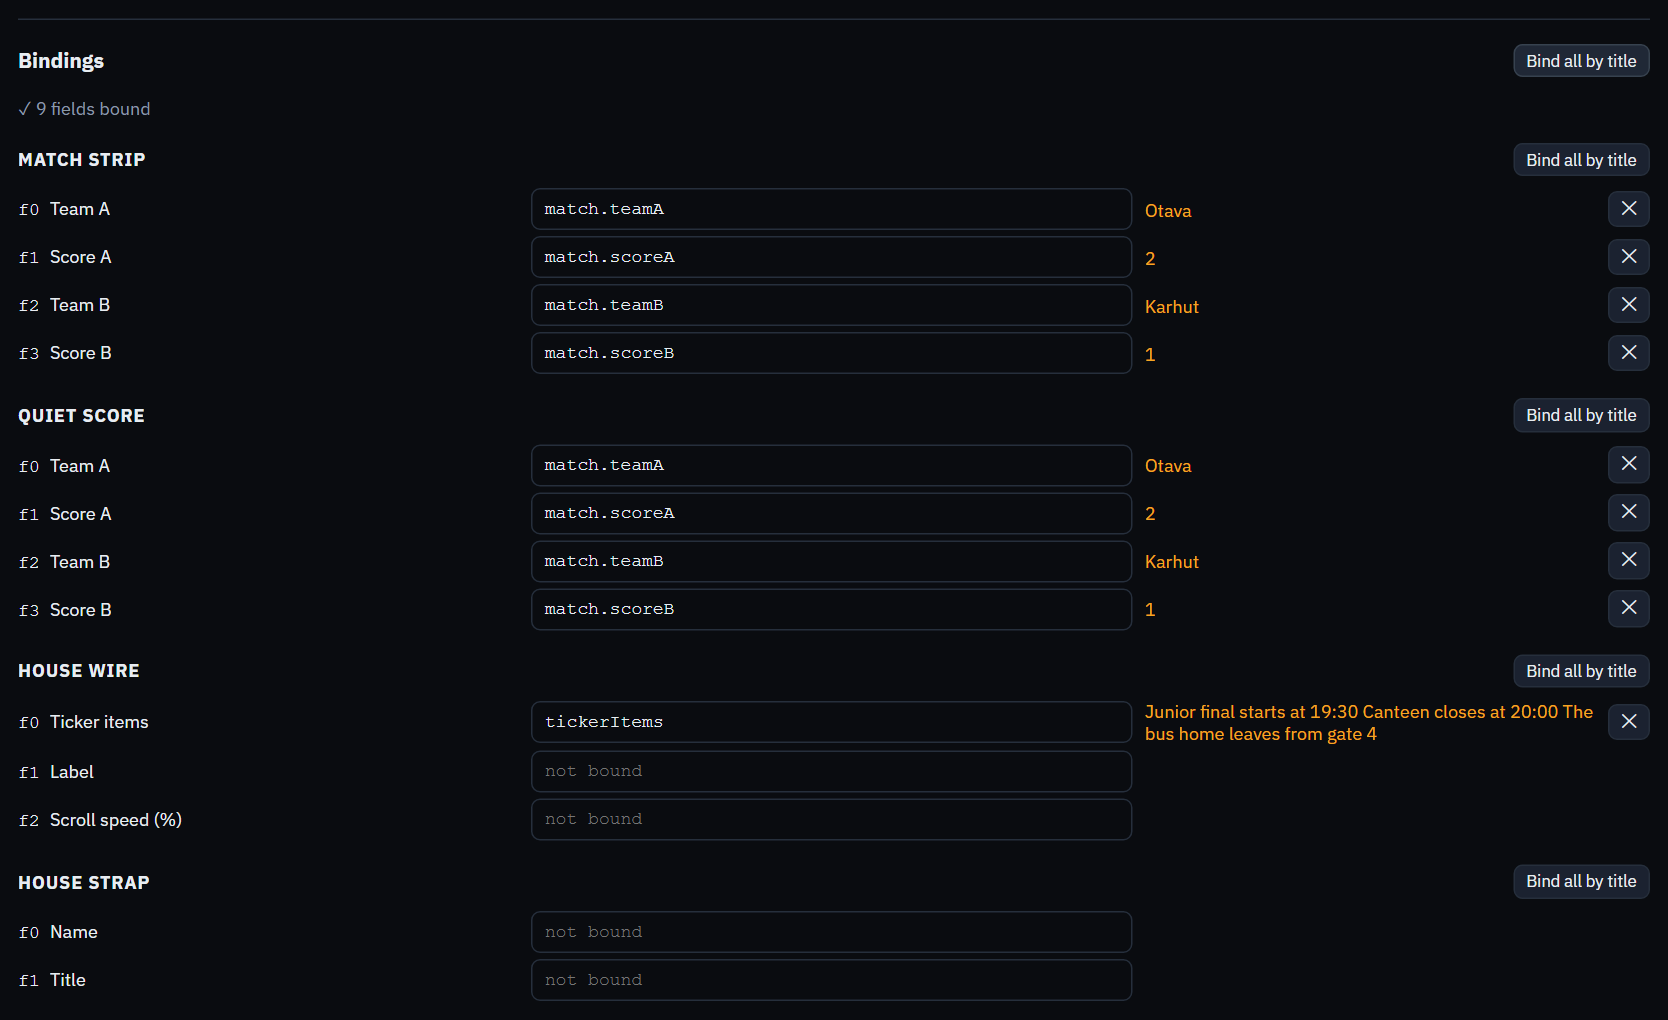
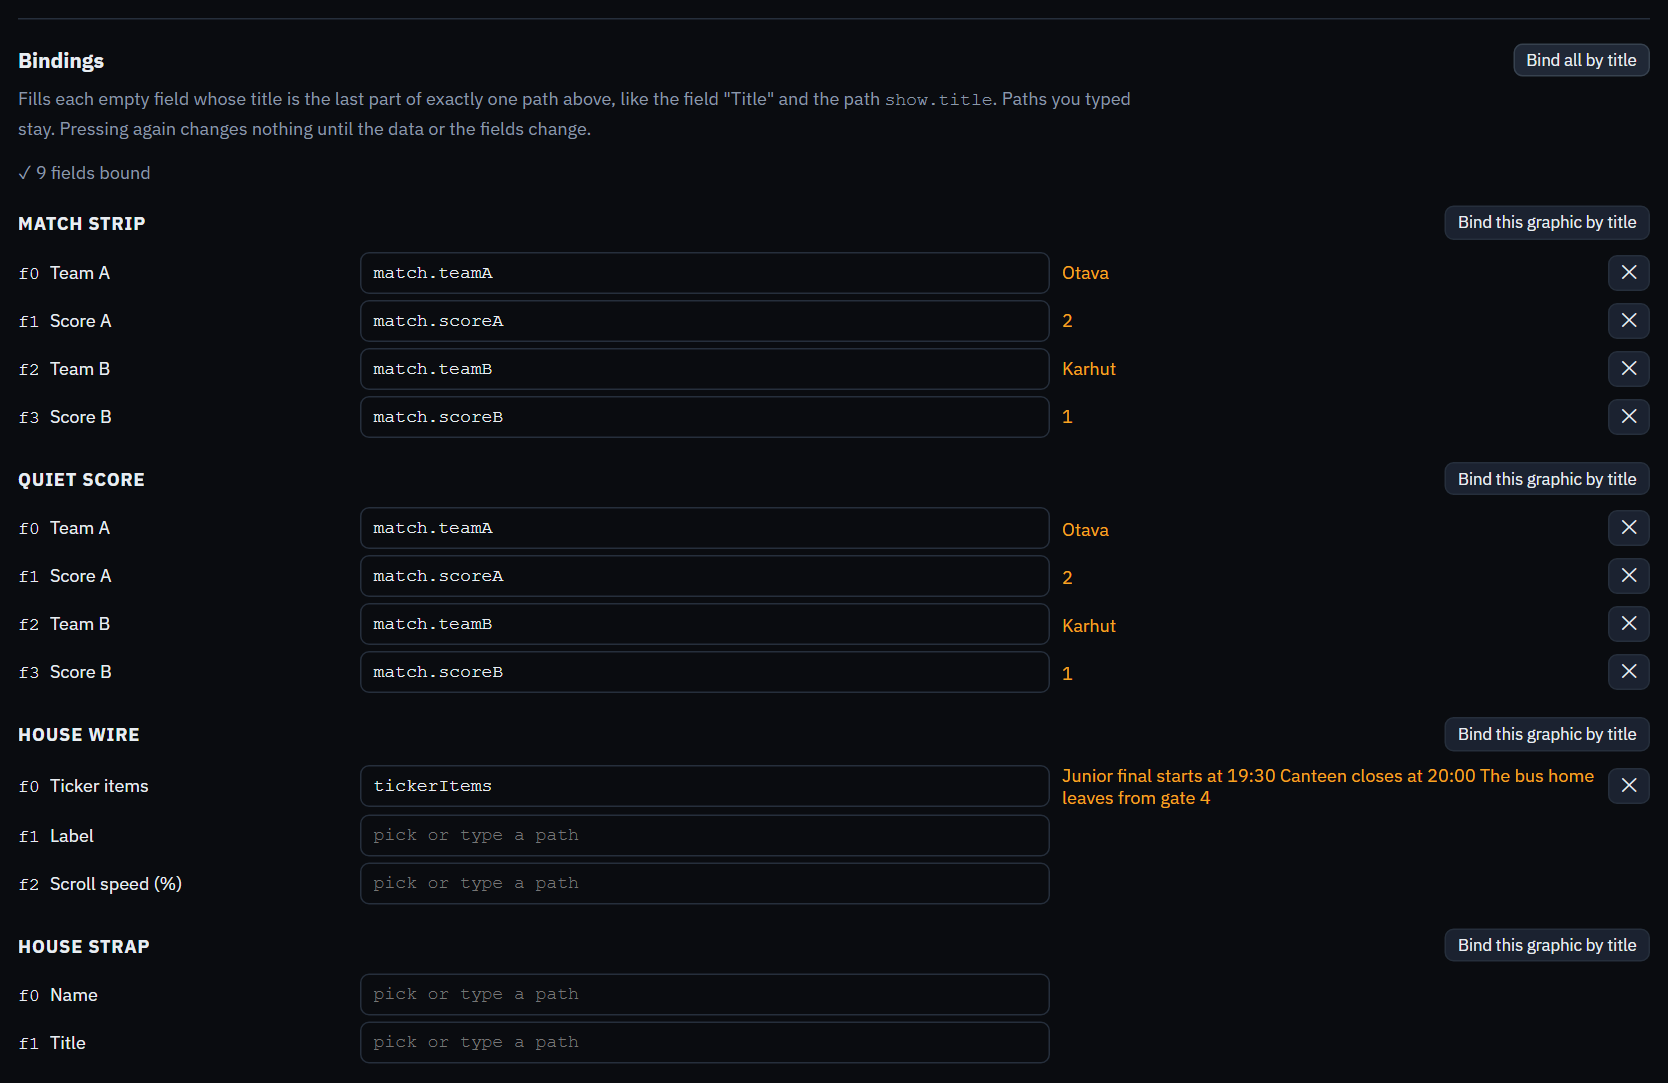
Re-take the Data tab screenshots against the tab main now ships
The Data tab changed under this branch. It has a "How this tab works" drawer,
a line under Bindings saying what the button matches, per-graphic buttons
reading "Bind this graphic by title", a rewritten panel hint, empty binding
boxes that say "pick or type a path", and columns lifted into shared tokens so
the tree and the bindings line up with each other rather than each being
internally straight.

Every published picture of that tab was therefore a picture of a screen nobody
will see again, which is the one failure a generated screenshot exists to
prevent. Re-run and re-declared: data-tree 651 to 635 tall, data-bindings 1020
to 1083.

The page follows the surface. Binding a field by hand is now picking a path out
of the row's own list or typing one, not only typing one.

The plan and this row's acceptance note described a grid repair that no longer
exists in the tree. Both now say what actually happened: two rows found the
same five-track/four-child defect on the same night from opposite directions,
the Data-tab row landed first with the deeper fix, and this branch's version
was dropped whole at the merge rather than reconciled. Nothing in e2e measures
either rule's geometry, which is the part still worth knowing.

The worked example's anchor is load-bearing now: the Data tab's drawer links to
/docs#data-example, so the spec comment pinning it says why rather than
guessing.

diff --git a/docs.html b/docs.html
@@ -1644,7 +1644,7 @@ CG 1-20 STOP</code></pre>
   ]
 }</code></pre>
           <figure class="doc-shot">
-            <img src="/docs/data-tree.png" width="1668" height="651" loading="lazy"
+            <img src="/docs/data-tree.png" width="1668" height="635" loading="lazy"
               alt="The Production data panel listing five values with their paths: match.teamA, match.scoreA, match.teamB, match.scoreB and tickerItems." />
             <figcaption>
               <strong>Five values, five addresses.</strong> The panel flattens whatever you paste
@@ -1680,7 +1680,7 @@ CG 1-20 STOP</code></pre>
             <strong>Bind all by title</strong>.
           </p>
           <figure class="doc-shot">
-            <img src="/docs/data-bindings.png" width="1668" height="1020" loading="lazy"
+            <img src="/docs/data-bindings.png" width="1668" height="1083" loading="lazy"
               alt="The Bindings list: both scoreboards bound to the same four paths and House Wire's Ticker items bound to tickerItems, each reading its value back, with House Strap's two fields left unbound." />
             <figcaption>
               <strong>Nine bound, four left alone.</strong> Both scoreboards landed on the same
@@ -1700,8 +1700,8 @@ CG 1-20 STOP</code></pre>
           <p>
             The strap's <strong>Name</strong> and <strong>Title</strong> matched nothing, and
             that is the correct answer rather than a gap. A guest's name is not something the
-            whole show shares. Type a path into any row to bind it by hand, and press the
-            <strong>&#10005;</strong> twice to unbind it again.
+            whole show shares. Click any row's box to pick a path out of the list, or type one,
+            and press the <strong>&#10005;</strong> twice to unbind it again.
           </p>
 
           <h3 id="example-air">One value, every graphic</h3>

diff --git a/e2e/docs.spec.ts b/e2e/docs.spec.ts
@@ -285,10 +285,10 @@ test('the worked example carries one show a reader can copy exactly', async ({ p
   await page.goto('/docs');
   const example = page.locator('#data-example');
 
-  // (a) THE ADDRESSES. `#data-example` and `#audience-no-chat` are what the Live data and
-  // Audience sections above hand off to, and the app's own Data tab is meant to point at the
-  // first (its panel already deep-links `/docs#data-api` the same way). Pinned here so they
-  // survive a restructure even when the headings around them move.
+  // (a) THE ADDRESSES, and `#data-example` is load-bearing OUTSIDE this page: the Data tab's
+  // "How this tab works" drawer ends with a link to it (ProductionDataPanel.tsx), so renaming
+  // the section breaks a link inside the product. `#audience-no-chat` is what the Audience
+  // section above hands off to. Pinned here so both survive a restructure of the headings.
   await expect(page.locator('section[id="data-example"]')).toHaveCount(1);
   await expect(example.locator('[id="audience-no-chat"]')).toHaveCount(1);
   await expect(page.locator('.doc-nav a[href="#data-example"]')).toHaveCount(1);

diff --git a/docs/handoffs/2026-09-16-tb-one-show-worked-through.md b/docs/handoffs/2026-09-16-tb-one-show-worked-through.md
@@ -32,21 +32,35 @@ to 10. The script gained a `clipBetween` helper for the strips no single element
 before the shutter, and it now prints each PNG's pixel size because `docs.html` hard-codes
 width/height and the spec fails when the two disagree.
 
-## What I found by driving it, and did not write around
+## The collision with row TA, and what I dropped
 
-**The Bindings rows were laid out by a five-column grid that a bound row only ever filled four
-of** (commit 1, `src/styles/feedback.css`). The unbind ✕ landed in a `0.9fr` track and drew 336px
-wide; and because each row is its own grid with an `auto` track in it, every row sized its columns
-from its own content, so the path inputs sat up to nine pixels apart down the list. Measured
-373/381px first columns and a 336px button before, 386/386 and 28px after.
+**Row TA landed changes to `src/styles/feedback.css` before me** (`0e49eeec`, `524d9b96`,
+`70b878a6`, merged as `9b74eb5c`), and we had found the SAME defect from opposite directions on
+the same night. Both `.pd-bind-row` and `.pd-live-row` were five-track grids that their own rows
+only ever filled four of - a bound binding row renders no suggestion, a text leaf renders no ±
+stepper - so in each case the delete ✕ fell into a wide `fr` track and drew as a slab tens of
+pixels left of the ✕ above it, and every row sized its columns from its own content so the path
+inputs never lined up. I measured 373/381px first columns and a 336px button before my fix.
 
-**`.pd-live-row` had the identical defect** and I had photographed it before the review caught it:
-the ± stepper renders only for a NUMBER leaf, so a string or list row has four children, the ✕ fell
-into the 64px stepper track and drew twice its size 40px left of its neighbours. Same repair,
-measured: every row's ✕ is now 28px at the same x whatever the leaf type. **Both are in
-`src/styles/feedback.css` and neither is touched by any e2e assertion** - I grepped. That is why
-they survived: nothing in the repo measures either row's geometry, and the only thing that caught
-them was publishing a picture.
+**TA's repair is better and mine was dropped whole at the merge**, not reconciled. Theirs pins the
+delete button to the last track on both rules AND lifts the label and path columns into
+`--pd-label-col` / `--pd-path-col` on `.pd-live`, so the tree and the bindings agree with EACH
+OTHER rather than each being internally straight, with an `fr` fallback under 900px for phones.
+Mine only made the rows within one table agree. The conflict was resolved by taking `origin/main`'s
+version of that file entire, and `git diff origin/main -- src/styles/feedback.css` is empty. My
+two CSS commits stay in the branch's history and contribute nothing to the tree; that is the
+honest record of what happened rather than a rewrite of it.
+
+**Nothing in `e2e/` measures either rule's geometry** - I grepped, and so did TA. That is why a
+defect this visible survived: it took two rows looking at the screen on one night, and every green
+build would have shipped it otherwise. If a third row touches those rules, that gap is still open.
+
+**The two rows meet on screen.** TA's new "How this tab works" drawer on the Data tab explains
+production data, bindings and tables in three short paragraphs and ends with a link to
+`/docs#data-example`, which is this section. The anchor is now load-bearing inside the product,
+and `e2e/docs.spec.ts` says so where it pins it. TA also filed
+`docs/backlog/app-links-into-the-docs-page-have-no-gate.md`, which is the gate neither of us
+built: nothing checks that an in-app link into `/docs` still resolves.
 
 **Two backlog items, both real and both filed rather than worked around:**
 

diff --git a/docs/PRODUCTION_DATA_PLAN.md b/docs/PRODUCTION_DATA_PLAN.md
@@ -754,10 +754,20 @@ production's tree is this browser's localStorage (`model/productionState.ts`), s
 seed` is what makes values travel with the production; published, the server's copy is the
 authority and every operator shares it. Both are now on the public page in those words.
 
-**One repair found by photographing it.** `.pd-bind-row` was a five-column grid, and a BOUND row
-renders only four children - field, input, live value, unbind ✕. The 28px track therefore went to
-nothing and the ✕ landed in the `minmax(80px, 0.9fr)` one, drawing as a 336px slab; and because
-each row is its own grid with an `auto` track in it, every row sized its columns from its own
-content, so the path inputs sat up to 9px apart down the list. Both are fixed in
-`src/styles/feedback.css` by placing each child in a named column. Nothing in `e2e/` measured
-either, which is why neither had ever been caught.
+**The same defect, found twice in one night, and the better fix won.** Photographing the Data tab
+showed `.pd-bind-row` and `.pd-live-row` were both five-track grids that their own rows only ever
+filled four of: a bound binding row has no suggestion, and a text leaf has no ± stepper, so in
+each case the delete ✕ fell into a wide `fr` track and drew as a slab tens of pixels left of the
+✕ on the row above it. Every row also sized its own columns from its own content, so the path
+inputs never lined up.
+
+The Data-tab row (`0e49eeec`, `524d9b96`, `70b878a6`) found the same thing independently, from
+the other direction, and landed first with a deeper repair: the delete button PINNED to the last
+track on both rules, and the label and path columns lifted into `--pd-label-col` /
+`--pd-path-col` on `.pd-live` so the tree and the bindings agree with EACH OTHER rather than each
+being internally straight, plus an `fr` fallback for both under 900px. That is the version in the
+tree; the screenshot row's own placement-by-class fix was dropped whole at the merge rather than
+reconciled, because it was the same diagnosis and the narrower answer.
+
+**Nothing in `e2e/` measures either rule's geometry**, which is why a defect this visible survived
+in both. Two rows had to look at the screen on the same night to find it.

diff --git a/docs/acceptance/owner-queue/2026-09-16-tb-one-show-worked-through.md b/docs/acceptance/owner-queue/2026-09-16-tb-one-show-worked-through.md
@@ -52,10 +52,16 @@ a ballot, in both providers, with no operator control anywhere to change it:
 `docs/backlog/the-join-page-prompt-never-follows-the-mode.md`. I kept that frame out of the docs
 rather than photographing it.
 
-## One repair on the way past
+## Two rows found the same defect on the same night
 
-The bindings rows on the Data tab were laid out by a five-column grid that a bound row only ever
-filled four of, so the unbind ✕ landed in a 0.9fr track and drew as a 336px slab instead of a 28px
-button, and every row sized its own columns from its own content so the path boxes sat a few
-pixels apart all the way down the list. Both are fixed in `src/styles/feedback.css`. It is visible
-in the bindings screenshot, which is how it was found.
+Photographing the Data tab showed its rows were laid out by grids that the rows themselves only
+ever half filled, so the delete ✕ drew as a wide slab on some rows and a small square on others,
+and the path boxes never lined up down the list. The Data-tab row found it independently and
+landed first with the better repair, so that one is what is in the tree and this row's was dropped
+whole at the merge. Worth knowing only because nothing in the test suite measures either row's
+geometry: it took two people looking at the screen on one night, and it would have survived every
+green build otherwise.
+
+The two rows meet on screen. The Data tab's own **How this tab works** drawer says what production
+data, bindings and tables are in three short paragraphs, and its last line links here for the
+worked example.
